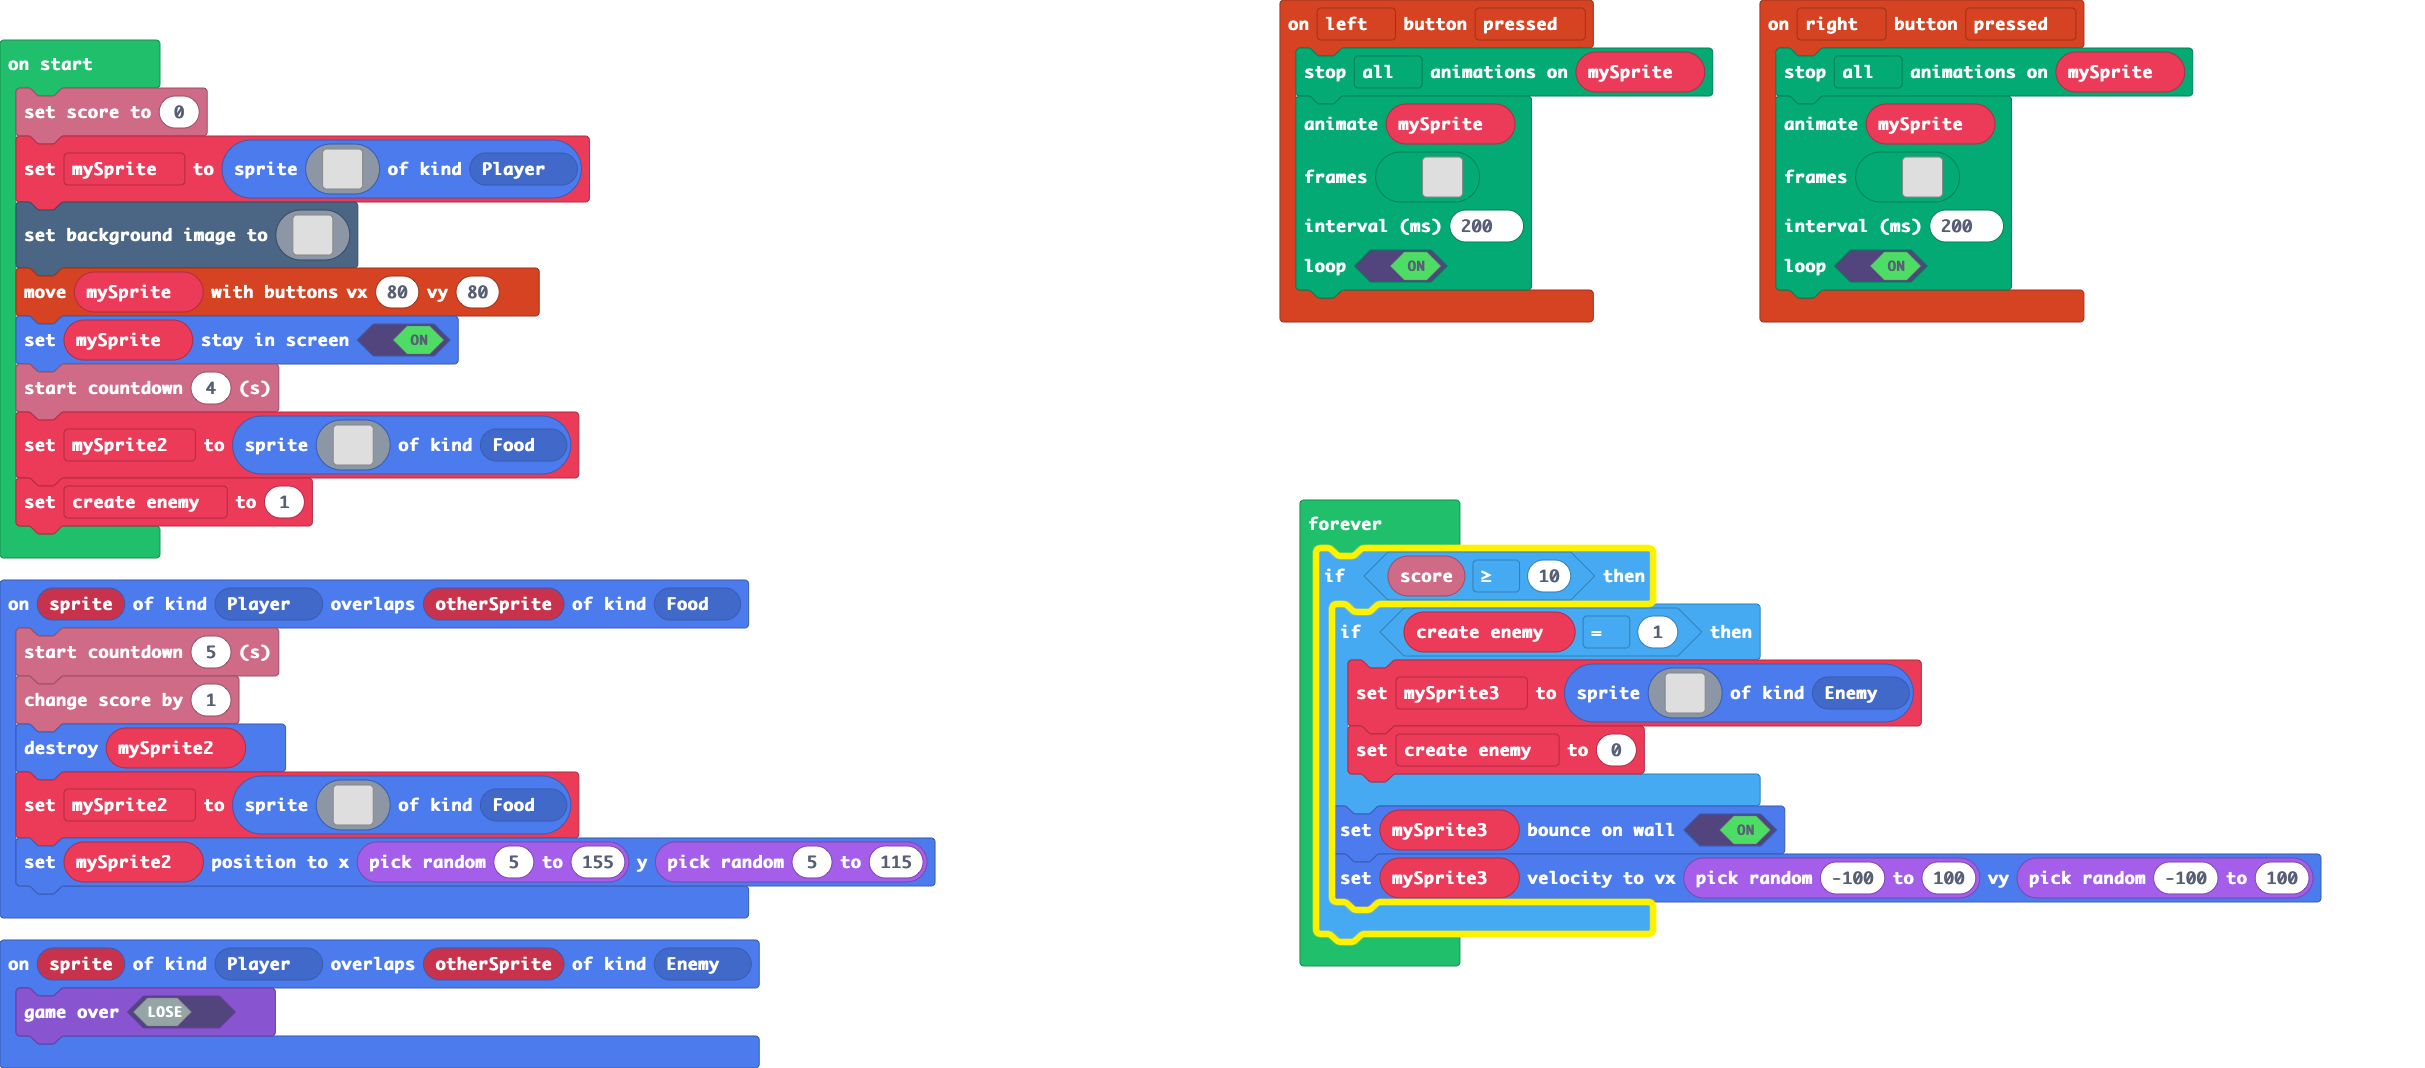
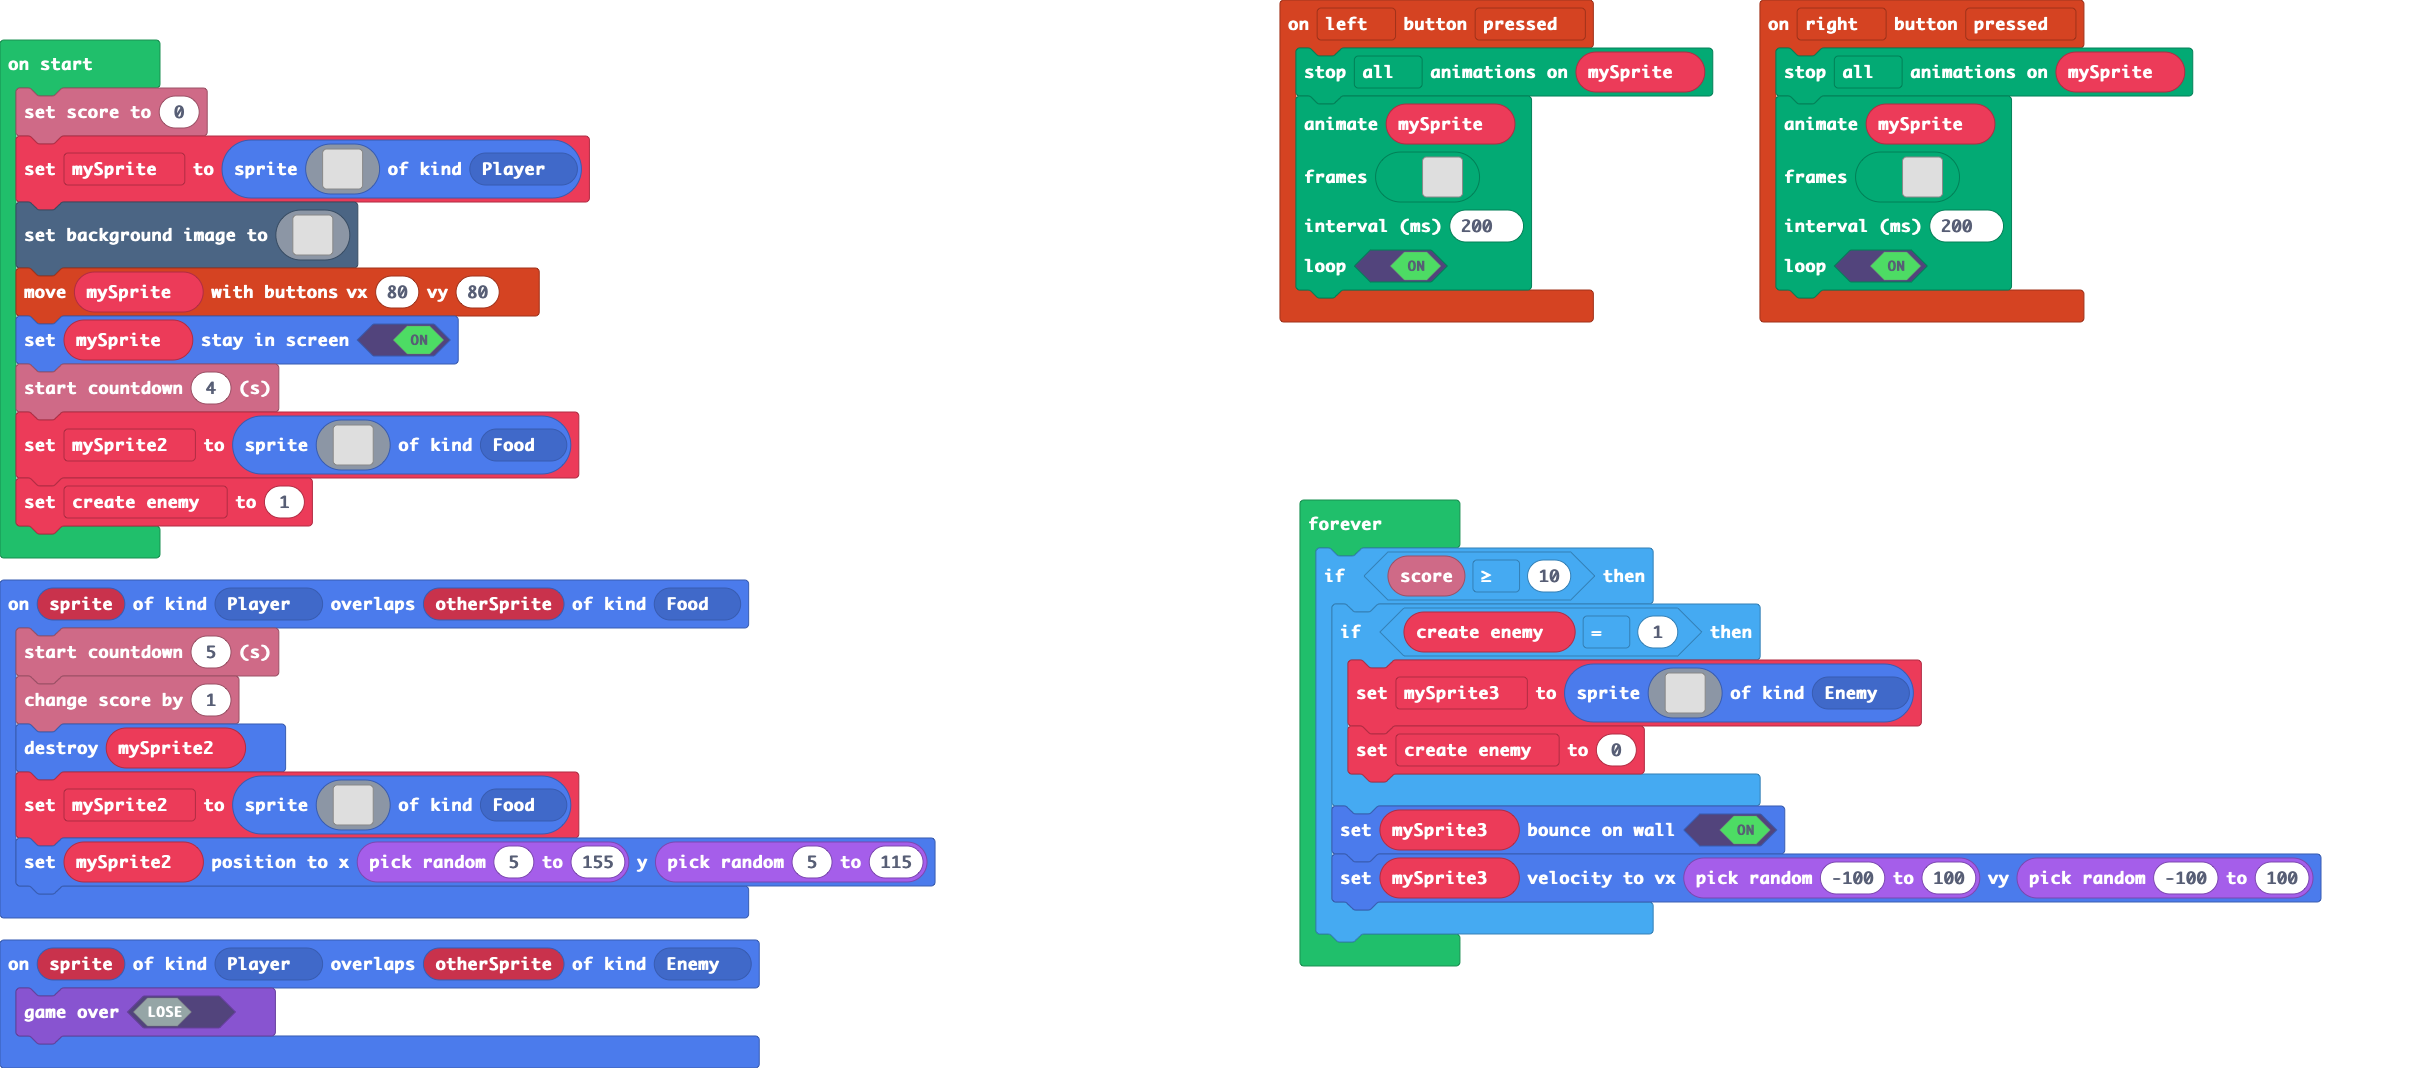
changed enemy into a duck

Changed region(s): [[0.5258, 0.4944, 0.6804, 0.8961]]

diff --git a/main.ts b/main.ts
@@ -349,22 +349,22 @@ forever(function () {
     if (info.score() >= 10) {
         if (create_enemy == 1) {
             mySprite3 = sprites.create(img`
-                . . . . f f f f f . . . . . . . 
-                . . . f 7 7 7 7 7 f . . . . . . 
-                . . f 6 6 6 6 7 7 7 f . . . . . 
-                . f 6 2 6 6 2 6 7 7 f f . . . . 
-                . f 6 2 6 6 2 6 7 7 6 6 f . . . 
-                f 6 8 8 6 6 6 6 7 7 f 6 f . . . 
-                f 6 6 6 6 f 6 6 7 7 f 6 f . f f 
-                f f f f f 6 6 6 7 7 f f . f 7 f 
-                . f 6 6 6 6 6 7 7 f f . . f 7 f 
-                . . f f f f f 7 7 7 7 f . f 7 f 
-                . . . . f 7 7 7 7 7 7 7 f f 7 f 
-                . . . f 7 f f 7 f 7 7 7 7 f f . 
-                . . . f 7 f f 7 f 7 7 7 7 f . . 
-                . . . f 6 8 f 6 8 f f 7 f . . . 
-                . . . f 6 6 8 6 6 8 8 6 f . . . 
-                . . . . f f f f f f f f f . . . 
+                . . . . . . . . . . b 5 b . . . 
+                . . . . . . . . . b 5 b . . . . 
+                . . . . . . . . . b c . . . . . 
+                . . . . . . b b b b b b . . . . 
+                . . . . . b b 5 5 5 5 5 b . . . 
+                . . . . b b 5 2 2 5 5 5 d 2 . . 
+                . . . . b 5 5 2 2 5 5 d 4 c . . 
+                . . . . b 5 5 5 5 5 d d 4 4 . . 
+                b d d d b b d 5 5 5 4 4 4 4 4 b 
+                b b d 5 5 5 b 5 5 4 4 4 4 4 b . 
+                b d c 5 5 5 5 d 5 5 5 5 5 b . . 
+                c d d c d 5 5 b 5 5 5 5 5 5 b . 
+                c b d d c c b 5 5 5 5 5 5 5 b . 
+                . c d d d d d d 5 5 5 5 5 d b . 
+                . . c b d d d d d 5 5 5 b b . . 
+                . . . c c c c c c c c b b . . . 
                 `, SpriteKind.Enemy)
             create_enemy = 0
         }
